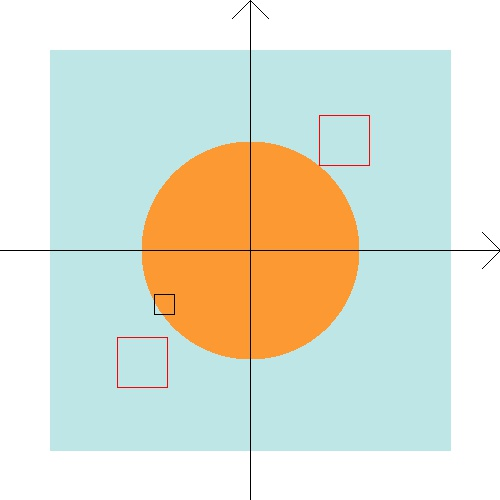
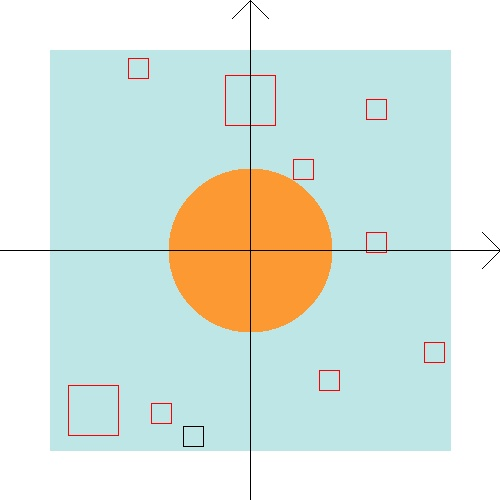
Many things in room

diff --git a/Python/run.py b/Python/run.py
@@ -15,8 +15,8 @@ if __name__ == "__main__":
         for thing in things:
             room.add_thing(thing)
 
-        pso = PartialSwarmOptimization(room, -300, 300)
-        pso.find_best_solution(partials=100, iterations=10)
+        pso = PartialSwarmOptimization(room, -200, 200)
+        pso.find_best_solution(partials=300, iterations=10)
 
         global_value = room.evaluate_solution(pso.global_solution)
         print(pso.global_solution)
